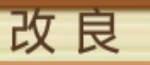
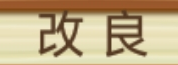
恢复队员改良重试逻辑，移除取消跟随确认；720 模板与坐标校准修复（1.0.28c）

diff --git a/app/src/main/java/com/jmf/autohook/HookService.kt b/app/src/main/java/com/jmf/autohook/HookService.kt
@@ -76,9 +76,12 @@ class HookService : AccessibilityService() {
     // ===== 界面状态模板（改良页/分解弹框/战斗页），懒加载 =====
     private data class RegionTpl(val name: String, val bmp: Bitmap, val gray: ByteArray)
     private var regionTpls: Map<String, RegionTpl>? = null
+    private val regionGrayCache = HashMap<String, ByteArray>()
     private val regionRects = mapOf(
-        "improve" to floatArrayOf(1115f / 2400f, 15f / 1080f, 1265f / 2400f, 80f / 1080f),
-        "popup" to floatArrayOf(955f / 2400f, 430f / 1080f, 1470f / 2400f, 510f / 1080f),
+        "improve" to floatArrayOf(1087f / 2400f, 12f / 1080f, 1265f / 2400f, 77f / 1080f),
+        "improve_720" to floatArrayOf(1087f / 2400f, 12f / 1080f, 1265f / 2400f, 77f / 1080f),
+        "popup" to floatArrayOf(840f / 2400f, 420f / 1080f, 1575f / 2400f, 513f / 1080f),
+        "popup_720" to floatArrayOf(840f / 2400f, 420f / 1080f, 1575f / 2400f, 513f / 1080f),
         "lian" to floatArrayOf(2055f / 2400f, 925f / 1080f, 2125f / 2400f, 980f / 1080f),
         "gong" to floatArrayOf(2190f / 2400f, 925f / 1080f, 2260f / 2400f, 980f / 1080f),
         "teji" to floatArrayOf(2200f / 2400f, 850f / 1080f, 2310f / 2400f, 915f / 1080f),
@@ -222,7 +225,7 @@ enum class DeviceProfile(val label: String, val key: String, val coords: Map<Str
         "improvePopupX" to floatArrayOf(0.6484f, 0.2625f),
         "improvePopupConfirm" to floatArrayOf(0.5430f, 0.5681f),
         "improveItem" to floatArrayOf(0.2977f, 0.2958f),
-        "improveEntry" to floatArrayOf(0.5067f, 0.9352f),
+        "improveEntry" to floatArrayOf(0.5922f, 0.9361f),
     )),
     YUN_1080_2400("1080*2400", "2400x1080", mapOf(
         "mapNameBox" to floatArrayOf(0.0938f, 0.0475f),
@@ -1187,6 +1190,8 @@ private fun coord(name: String, def: FloatArray): FloatArray {
         var attempt = 0
         while (running && attempt < 10) {
             attempt++
+            // 每轮重试前先清弹窗，避免残留弹窗被误判成战斗
+            closeAllGreenX()
             setStatus("队长：等待非战斗瞬间（第 $attempt 次）")
             if (!waitIdleForAfkStop(10000)) {
                 logLine("10 秒内没等到非战斗，重试（第 $attempt 次）")
@@ -1199,16 +1204,24 @@ private fun coord(name: String, def: FloatArray): FloatArray {
             while (running && System.currentTimeMillis() - t0 < 15000) {
                 delay(2000)
                 val combat = isCombatPage()
-                if (!combat) streak++ else streak = 0
-                logLine("关闭挂机校验: 战斗中=$combat 连续非战斗=$streak/3（第 $attempt 次）")
-                if (streak >= 3) {
+                if (combat) {
+                    // 中途检测到战斗：本轮直接失败，重新等脱战、重新点挂机
+                    streak = 0
+                    logLine("关闭挂机校验: 检测到战斗，本轮失败，马上重试（第 $attempt 次）@${stamp()}")
+                    break
+                }
+                streak++
+                logLine("关闭挂机校验: 战斗中=$combat 连续非战斗=$streak/4（第 $attempt 次）@${stamp()}")
+                if (streak >= 4) {
+                    // 停挂机后可能弹出提示，先清掉再点改良
+                    closeAllGreenX()
                     setStatus("挂机已停止，点击改良")
                     tap(coord("improveEntry", coordDefaults["improveEntry"]!!))
                     delay(3000)
                     return true
                 }
             }
-            logLine("本轮未连续 3 次非战斗，马上重试（第 $attempt 次）")
+            logLine("本轮未连续 4 次非战斗，马上重试（第 $attempt 次）")
         }
         return false
     }
@@ -1256,12 +1269,18 @@ private fun coord(name: String, def: FloatArray): FloatArray {
     /** 一次完整的清理尝试：开改良 → 修理 → 分解 → 关改良 */
     private suspend fun runImproveOnce(): Boolean {
         val opened = if (role == "队长") {
-            // 队长流程已点过底部「改良」，这里只做校验，必要时补点一次
-            if (isImproveOpen()) true else {
+            // 队长：校验失败就继续点右下角改良重试（最多 8 次，每次间隔 2 秒）
+            var ok = isImproveOpen()
+            var attempt = 0
+            while (!ok && attempt < 8) {
+                attempt++
+                logLine("改良页未确认，点右下角改良（第 $attempt 次）")
                 tap(coord("improveEntry", coordDefaults["improveEntry"]!!))
-                delay(3000)
-                isImproveOpen()
+                delay(2000)
+                ok = isImproveOpen()
+                if (!ok) quickClosePopup()
             }
+            ok
         } else {
             openImprovePage()
         }
@@ -1315,25 +1334,25 @@ private fun coord(name: String, def: FloatArray): FloatArray {
         }
         setStatus("买药：开始")
         closeAllGreenX()
-        tap(avatar); delay(3000)
-        tap(bag); delay(3000)
+        tap(avatar); delay(2000)
+        tap(bag); delay(2000)
         logLine("买药：包裹已打开")
-        tap(shop); delay(3000)
+        tap(shop); delay(2000)
         logLine("买药：商店已打开")
-        tap(sellAll); delay(3000)
-        tap(sellOk); delay(3000)
+        tap(sellAll); delay(2000)
+        tap(sellOk); delay(2000)
         logLine("买药：一键出售完成")
         var done = 0
         for (i in listOf(1, 3)) {
             val med = coordOrNull("med$i") ?: continue
             setStatus("买药：第 $i 种")
-            tap(med); delay(3000)
-            tap(buy); delay(3000)
-            tap(numBox); delay(3000)
+            tap(med); delay(2000)
+            tap(buy); delay(2000)
+            tap(numBox); delay(2000)
             var ready = waitEditableNode(3000)
             if (!ready) {
                 logLine("第 $i 种药：输入框未打开，重点一次")
-                tap(numBox); delay(3000)
+                tap(numBox); delay(2000)
                 ready = waitEditableNode(2000)
             }
             if (!ready) {
@@ -1344,20 +1363,26 @@ private fun coord(name: String, def: FloatArray): FloatArray {
                 logLine("第 $i 种药：写入失败，跳过")
                 continue
             }
-            delay(3000)
+            delay(2000)
             if (!pressImeDone()) logLine("第 $i 种药：未找到输入法完成键")
-            delay(5000)
-            tap(numOk); delay(3000)
+            delay(3000)
+            tap(numOk); delay(2000)
             logLine("第 $i 种药：数量 500 已确认")
             done++
         }
-        coordOrNull("shopClose")?.let { logLine("买药：关闭商店"); tap(it); delay(3000) }
+        coordOrNull("shopClose")?.let { logLine("买药：关闭商店"); tap(it); delay(2000) }
+        // 再点一次关闭商店，防止第一次没关掉
+        coordOrNull("shopClose")?.let { tap(it); delay(2000) }
+        // 买完药可能还留着弹窗/商店残留，先统一关掉，避免后续战斗判定被挡住
+        closeAllGreenX()
         logLine("买药完成，成功=$done")
         prefs.edit().putLong("lastBuyAt", System.currentTimeMillis()).apply()
     }
     private suspend fun runDailyChores(): Boolean {
         lastDailyStatus = "执行中"
         setStatus("开始日常：分解修理")
+        // 进流程前先清干净弹窗，避免残留弹窗导致战斗判定/改良入口失效
+        closeAllGreenX()
         // 队长：先关闭挂机，再进改良页（避免自动战斗把界面顶掉）
         if (role == "队长") {
             setStatus("队长：先关闭挂机")
@@ -1439,10 +1464,15 @@ private fun coord(name: String, def: FloatArray): FloatArray {
                             togglePanel()
                             return true
                         }
+                        // 恢复原始坐标系：与 abs() 点击映射共用 inputW/inputH
                         val longSide = maxOf(inputW, inputH)
                         val shortSide = minOf(inputW, inputH)
                         val rx = ev.rawX / longSide
                         val ry = ev.rawY / shortSide
+                        logLine(
+                            "校准: input=${inputW}x${inputH} " +
+                                "raw=(${ev.rawX},${ev.rawY}) -> (%.4f,%.4f)".format(rx, ry)
+                        )
                         getSharedPreferences("cfg", Context.MODE_PRIVATE).edit()
                             .putString("coord_" + coordPrefix(key) + key, "%.4f,%.4f".format(rx, ry)).apply()
                         android.widget.Toast.makeText(this@HookService,
@@ -1450,6 +1480,8 @@ private fun coord(name: String, def: FloatArray): FloatArray {
                             android.widget.Toast.LENGTH_SHORT).show()
                         calibView?.let { wm.removeView(it) }
                         calibView = null
+                        // 校准值已写入 prefs，面板缓存必须失效，否则输入框还显示旧值
+                        panelDirty = true
                         togglePanel()
                     }
                     return true
@@ -1781,8 +1813,10 @@ private fun coord(name: String, def: FloatArray): FloatArray {
 
     /** 按固定比例裁出区域，缩放到模板尺寸后做 NCC */
     private fun matchRegion(name: String, bmp: Bitmap, g: Rect): Float {
-        val t = regionTemplates()[name] ?: return -1f
         val r = regionRects[name] ?: return -1f
+        // 支持同一区域的多个分辨率模板：improve / improve_720 取最高分
+        val candidates = regionTemplates().entries.filter { it.key == name || it.key.startsWith(name + "_") }
+        if (candidates.isEmpty()) return -1f
         val x0 = g.left + (r[0] * g.width()).toInt()
         val y0 = g.top + (r[1] * g.height()).toInt()
         val x1 = g.left + (r[2] * g.width()).toInt()
@@ -1795,18 +1829,48 @@ private fun coord(name: String, def: FloatArray): FloatArray {
         if (y + h > bmp.height) h = bmp.height - y
         if (w < 6 || h < 6) return -1f
         val roi = Bitmap.createBitmap(bmp, x, y, w, h)
-        val scaled = if (w == t.bmp.width && h == t.bmp.height) roi
-        else Bitmap.createScaledBitmap(roi, t.bmp.width, t.bmp.height, true)
-        if (scaled !== roi) roi.recycle()
-        val px = IntArray(t.bmp.width * t.bmp.height)
-        scaled.getPixels(px, 0, t.bmp.width, 0, 0, t.bmp.width, t.bmp.height)
-        scaled.recycle()
+        var best = -1f
+        for ((key, t) in candidates) {
+            val s = scoreRoi(roi, t, key)
+            if (s > best) best = s
+        }
+        roi.recycle()
+        return best
+    }
+
+    /** 画面 ROI 与单个模板做 NCC；小屏时把模板缩到 ROI 尺寸，避免放大画面导致细节丢失 */
+    private fun scoreRoi(roi: Bitmap, t: RegionTpl, key: String): Float {
+        val w = roi.width
+        val h = roi.height
+        // 小分辨率下不要把画面放大：取画面和模板里较小的尺寸做 1:1 比对，避免细节被抹平
+        val useW = minOf(w, t.bmp.width).coerceAtLeast(6)
+        val useH = minOf(h, t.bmp.height).coerceAtLeast(6)
+        val roiScaled = if (w == useW && h == useH) roi
+        else Bitmap.createScaledBitmap(roi, useW, useH, true)
+        val px = IntArray(useW * useH)
+        roiScaled.getPixels(px, 0, useW, 0, 0, useW, useH)
+        if (roiScaled !== roi) roiScaled.recycle()
         val gray = ByteArray(px.size)
         for (i in px.indices) {
             val c = px[i]
             gray[i] = ((c shr 16 and 0xFF) * 0.299f + (c shr 8 and 0xFF) * 0.587f + (c and 0xFF) * 0.114f).toInt().toByte()
         }
-        return nccScore(gray, t.gray, t.bmp.width, t.bmp.height, 3)
+        val cacheKey = key + "@" + useW + "x" + useH
+        val tgray = regionGrayCache[cacheKey] ?: run {
+            val tplScaled = if (t.bmp.width == useW && t.bmp.height == useH) t.bmp
+            else Bitmap.createScaledBitmap(t.bmp, useW, useH, true)
+            val tpx = IntArray(useW * useH)
+            tplScaled.getPixels(tpx, 0, useW, 0, 0, useW, useH)
+            if (tplScaled !== t.bmp) tplScaled.recycle()
+            val g = ByteArray(tpx.size)
+            for (i in tpx.indices) {
+                val c = tpx[i]
+                g[i] = ((c shr 16 and 0xFF) * 0.299f + (c shr 8 and 0xFF) * 0.587f + (c and 0xFF) * 0.114f).toInt().toByte()
+            }
+            regionGrayCache[cacheKey] = g
+            g
+        }
+        return nccScore(gray, tgray, useW, useH, 3)
     }
 
     /** 主城名模板匹配：名字框相对游戏区固定，按比例裁出后和模板做 NCC */
@@ -2410,8 +2474,8 @@ private fun coord(name: String, def: FloatArray): FloatArray {
         val coarseBest = matchTemplate(
             coarseGray, coarseColors, cw2, ch2,
             tpl.first, tpl.second, tpl.third,
-            // 320 宽缩略图里绿叉约 20px，对应倍率就是 1.0；原来 0.35 起的尺度只会匹配到噪声
-            cw2 / 1280f, listOf(0.8f, 0.9f, 1.0f, 1.1f, 1.2f), 2,
+            // 绿叉实际尺寸约为模板的 0.5~0.7 倍，尺度必须覆盖到 0.4，否则会漏检
+            cw2 / 1280f, listOf(0.4f, 0.5f, 0.6f, 0.7f, 0.8f, 0.9f, 1.0f, 1.1f, 1.2f), 2,
             0, 0, cw2 - 1, ch2 - 1, 0.45f, coarseHits
         )
         logLine("greenx coarse " + (System.currentTimeMillis() - tCoarse) + "ms hits=" + coarseHits.size + " best=" + java.lang.String.format("%.3f", coarseBest))
@@ -2432,40 +2496,46 @@ private fun coord(name: String, def: FloatArray): FloatArray {
             if (!dup) seeds.add(h)
         }
 
-        val targetW = 1280
-        val f = if (bandW > targetW) targetW.toFloat() / bandW else 1f
-        val sw = (bandW * f).toInt()
-        val sh = (bandH * f).toInt()
-        val scaled = Bitmap.createScaledBitmap(band, sw, sh, true)
-        if (band !== bmp) band.recycle()
-        val gray = FloatArray(sw * sh)
-        val colors = IntArray(sw * sh)
-        for (y in 0 until sh) {
-            for (x in 0 until sw) {
-                val c = scaled.getPixel(x, y)
-                colors[y * sw + x] = c
-                gray[y * sw + x] = 0.299f * ((c shr 16) and 0xFF) + 0.587f * ((c shr 8) and 0xFF) + 0.114f * (c and 0xFF)
-            }
-        }
-        scaled.recycle()
-        val base = sw / bandW.toFloat()
-        val tplFineW = (tpl.first * (sw / 1280f)).toInt().coerceAtLeast(8)
-        // 粗扫→精扫是固定 4 倍映射，误差只有几个像素；原来按模板宽度取半径会放大到 ~57px，白扫很多位置
-        val radius = maxOf(20, tplFineW / 4)
+        // 精扫不再把整条画面缩到 1280：围绕粗扫候选裁一小块原图做匹配。
+        // 模板保持真实尺寸(~78px)，倍率恒定在 1.0 附近，不会因 0.53 倍率丢细节而误报。
         val fineHits = mutableListOf<GreenXCand>()
         var fineBest = 0f
         val tFine = System.currentTimeMillis()
+        val coarseToFine = 1f / coarseScale
+        val fineScales = listOf(0.85f, 0.95f, 1.05f, 1.15f)
+        val pad = maxOf(24, (bandW / 320f * 3f).toInt())
+        val winSize = (tpl.first * fineScales.maxOrNull()!!).toInt() + pad * 2
         for (seed in seeds) {
-            val fx = (seed.cx * f / coarseScale).toInt()
-            val fy = (seed.cy * f / coarseScale).toInt()
+            val fx = (seed.cx * coarseToFine).toInt()
+            val fy = (seed.cy * coarseToFine).toInt()
+            val wx = (fx - winSize / 2).coerceIn(0, maxOf(0, bandW - winSize))
+            val wy = (fy - winSize / 2).coerceIn(0, maxOf(0, bandH - winSize))
+            val ww = minOf(winSize, bandW - wx)
+            val wh = minOf(winSize, bandH - wy)
+            if (ww < tpl.first || wh < tpl.second) continue
+            val win = Bitmap.createBitmap(band, wx, wy, ww, wh)
+            val wColors = IntArray(ww * wh)
+            win.getPixels(wColors, 0, ww, 0, 0, ww, wh)
+            win.recycle()
+            val wGray = FloatArray(ww * wh)
+            for (i in wColors.indices) {
+                val c = wColors[i]
+                wGray[i] = 0.299f * ((c shr 16) and 0xFF) + 0.587f * ((c shr 8) and 0xFF) + 0.114f * (c and 0xFF)
+            }
+            val before = fineHits.size
             val s = matchTemplate(
-                gray, colors, sw, sh,
+                wGray, wColors, ww, wh,
                 tpl.first, tpl.second, tpl.third,
-                sw / 1280f, listOf(0.85f, 0.9f, 0.95f, 1f, 1.05f, 1.1f, 1.15f), 3,
-                fx - radius, fy - radius, fx + radius, fy + radius, 0.70f, fineHits
+                1.0f, fineScales, 3,
+                0, 0, ww - 1, wh - 1, 0.70f, fineHits
             )
+            for (i in before until fineHits.size) {
+                val h = fineHits[i]
+                fineHits[i] = GreenXCand(h.cx + wx, h.cy + wy, h.score, h.size, h.whiteRatio)
+            }
             if (s > fineBest) fineBest = s
         }
+        if (band !== bmp) band.recycle()
         logLine("greenx fine " + (System.currentTimeMillis() - tFine) + "ms seeds=" + seeds.size + " hits=" + fineHits.size)
 
         fineHits.sortByDescending { it.score }
@@ -2483,9 +2553,9 @@ private fun coord(name: String, def: FloatArray): FloatArray {
         lastGreenXBest = maxOf(fineBest, coarseBest)
         val result = mutableListOf<Pair<Int, Int>>()
         for (c in kept) {
-            val px = (c.cx / f).toInt() + g.left
-            val py = (c.cy / f).toInt() + bandTop
-            val ratio = greenRatio(bmp, px, py, ((c.size / f) / 2).toInt().coerceAtLeast(10))
+            val px = c.cx + g.left
+            val py = c.cy + bandTop
+            val ratio = greenRatio(bmp, px, py, (c.size / 2).coerceAtLeast(10))
             logLine("绿叉候选 ($px,$py) score=" + java.lang.String.format("%.3f", c.score) + " green=" + java.lang.String.format("%.2f", ratio) + " white=" + java.lang.String.format("%.2f", c.whiteRatio))
             if (c.score <= 1.0f && ratio >= 0.05f && c.whiteRatio <= 0.5f) result.add(px to py)
         }
@@ -2706,6 +2776,8 @@ private fun coord(name: String, def: FloatArray): FloatArray {
     }
     private fun testTap(p: FloatArray) {
         val (x, y) = abs(p)
+        val dm = resources.displayMetrics
+        logLine("测试: p=(${p[0]},${p[1]}) dm=${dm.widthPixels}x${dm.heightPixels} input=${inputW}x${inputH} -> ($x,$y)")
         setStatus("点击坐标: ($x,$y)")
         showGestureDot(x, y)
         handler.postDelayed({ hideGestureDot() }, 1400)
